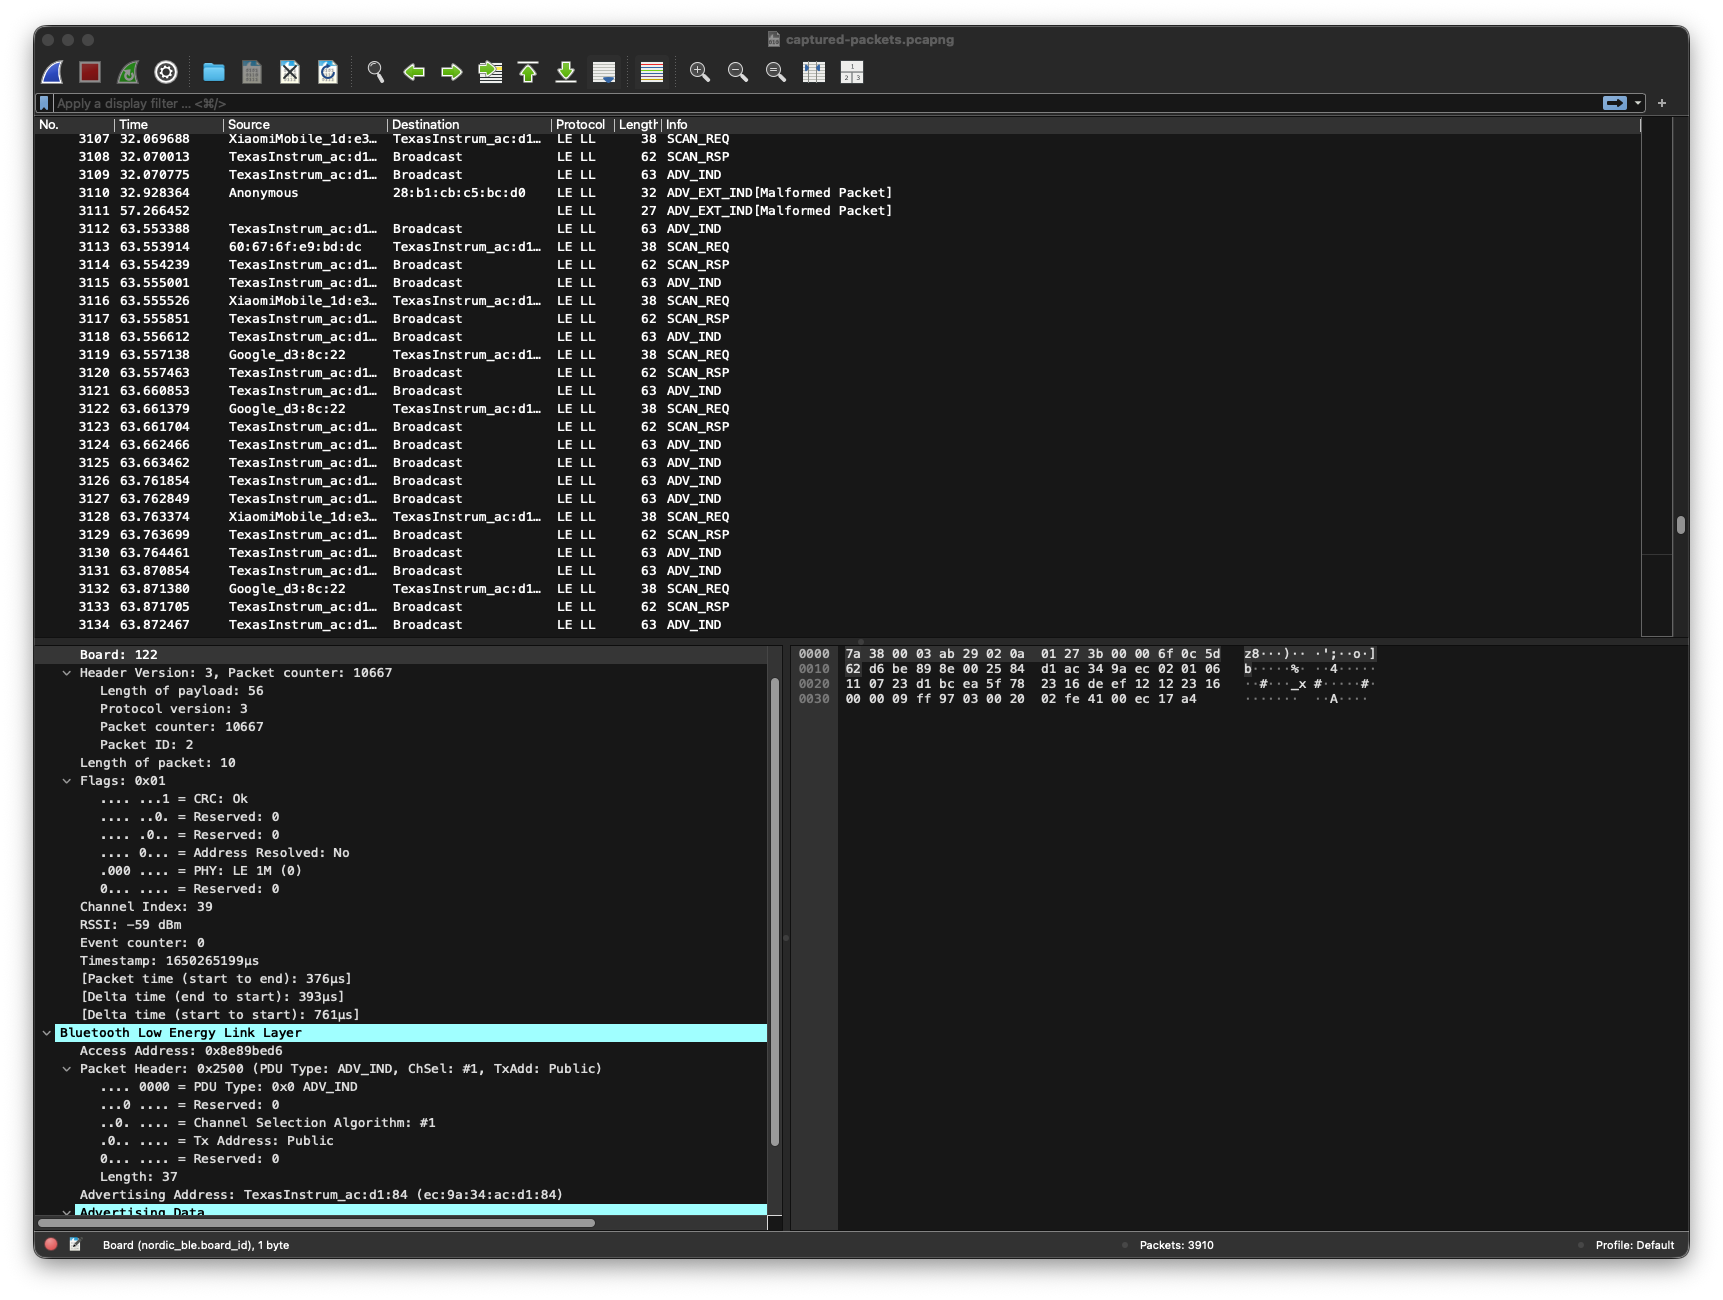
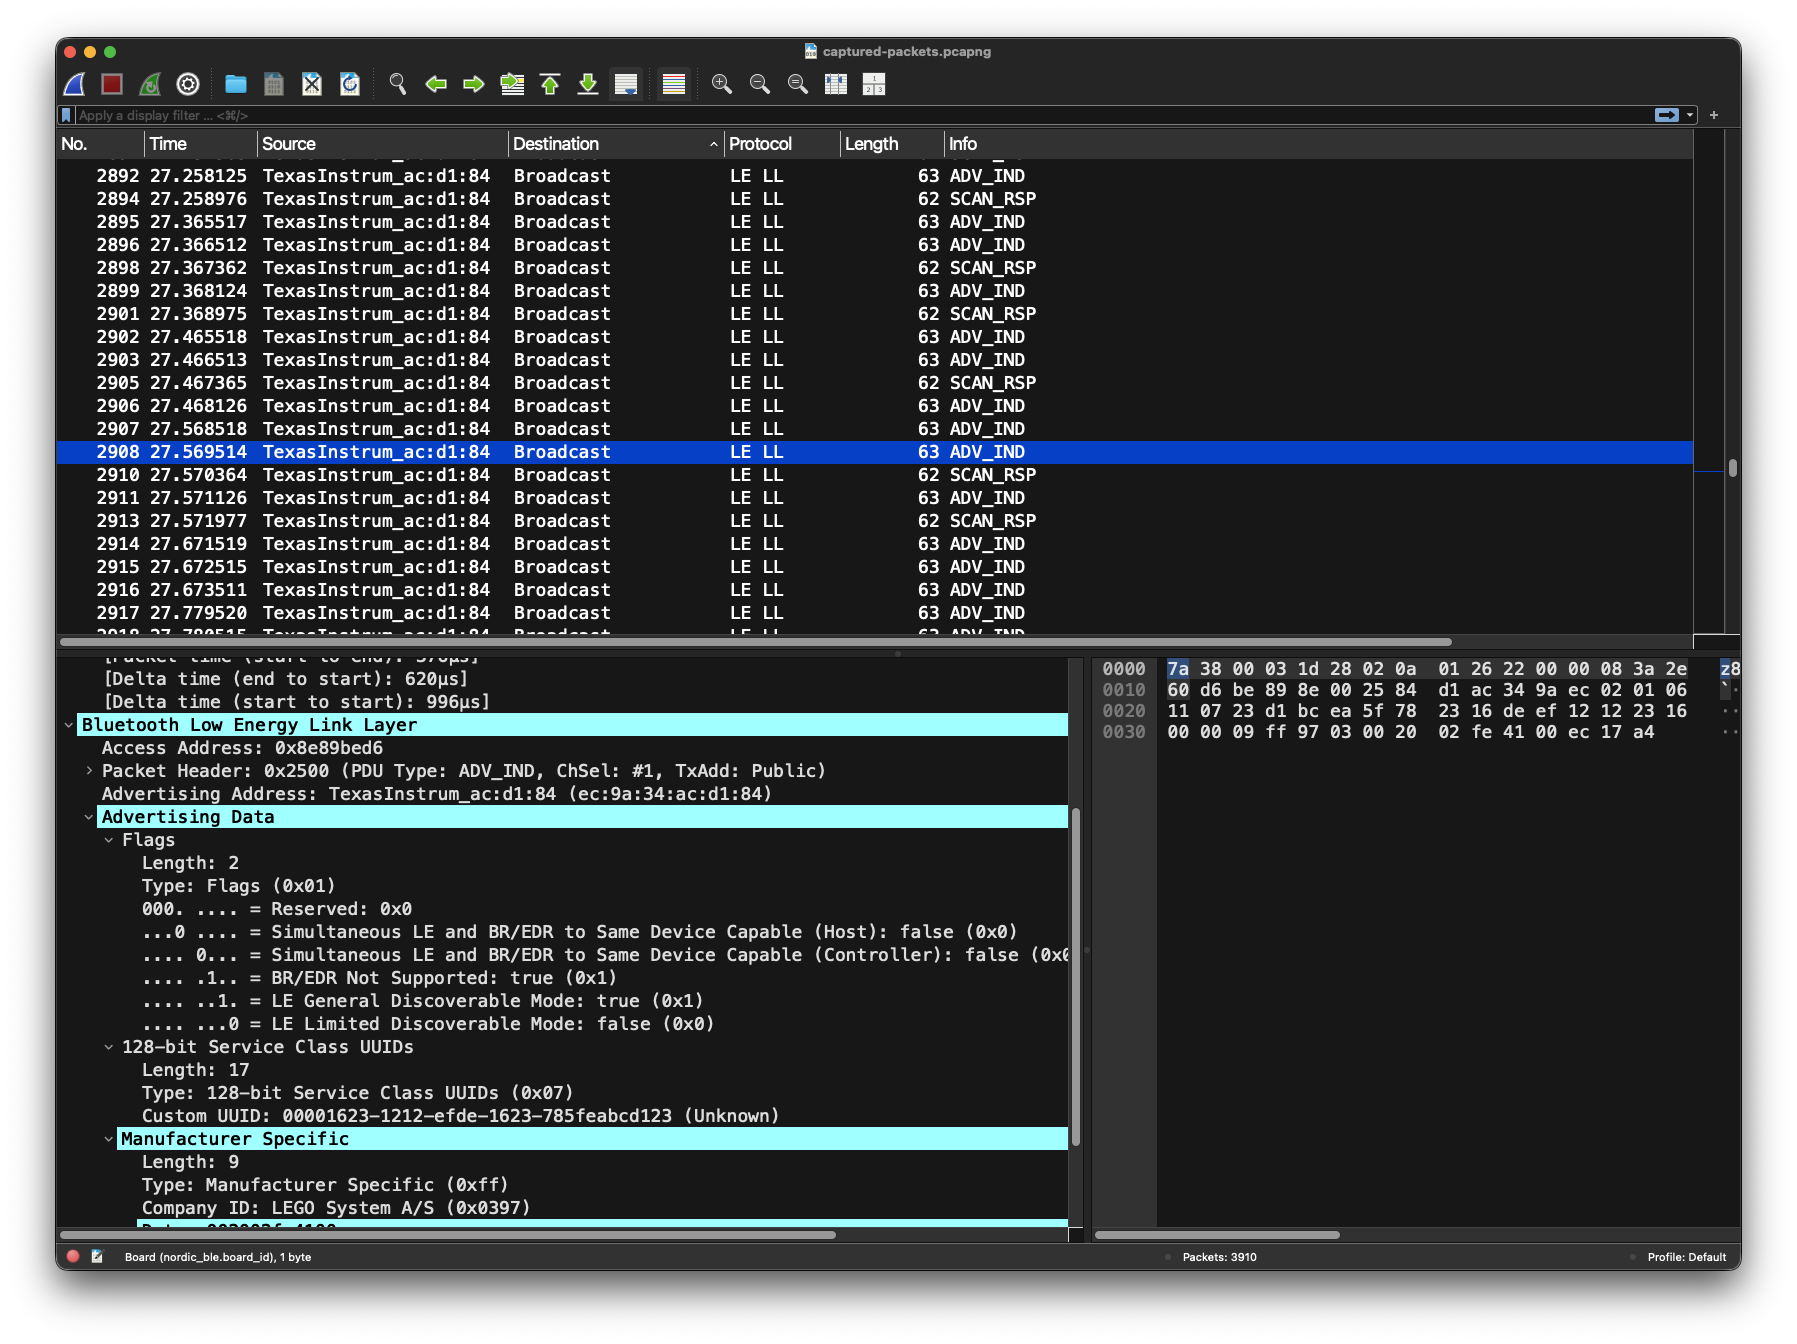
siplification

diff --git a/slides/components/BleConnectionDiagram.vue b/slides/components/BleConnectionDiagram.vue
@@ -34,9 +34,9 @@
 
       <div v-click="3" class="ble-flow__step">
         <div class="ble-flow__step-no">03</div>
-        <div class="ble-flow__packet ble-flow__packet--both">DATA CHANNELS</div>
+        <div class="ble-flow__packet ble-flow__packet--both">CONNECTED LINK</div>
         <div class="ble-flow__direction">Both devices</div>
-        <div class="ble-flow__detail">Connection events follow a shared hopping sequence</div>
+        <div class="ble-flow__detail">Packets hop across channels 0–36 using a shared sequence</div>
         <code>0–36 · frequency hopping</code>
       </div>
 

diff --git a/slides/slides.md b/slides/slides.md
@@ -103,16 +103,6 @@ dense: true
 
 # What the official app does
 
-<div class="atm-sub">A small UI over a BLE connection</div>
-
-<v-clicks>
-
-- Forward, backward and stop at fixed speed presets
-- Toggle through five light colours
-- Toggle through five built-in sounds
-
-</v-clicks>
-
 ::right::
 
 <div class="mt-[128px]">
@@ -203,98 +193,37 @@ that turns the radio traffic into something readable.
 
 ---
 layout: atm-split
-surface: dark
-bg: soft
-panel: soft
-ratio: 0.9fr 1.2fr
-deco: none
----
-
-# The nRF52840 dongle
-
-<div class="atm-sub">A practical over-the-air BLE sniffer</div>
-
-<v-clicks>
-
-- Clear documentation and open tooling
-- Firmware, Wireshark plugins and community tooling
-- Affordable: around $20, depending on the seller
-- For this demo: BLE only. The nRF52840 also supports 802.15.4-based protocols
-
-</v-clicks>
-
-::right::
-
-<div class="mt-[18px] flex justify-center">
-
-<div style="width: 120px">
-  <Shot src="/shots/nrf52840.png" plain />
-</div>
-
-</div>
-
-<!--
-The dongle, 50 seconds.
-
-to be done
--->
-
----
-layout: atm-split
-surface: dark
-bg: bokeh
-panel: true
+surface: light
 ratio: 0.82fr 1.35fr
 dense: true
 deco: none
 ---
 
-# Wireshark
+<h2>nRF52840 dongle</h2>
 
-<div class="atm-sub">An open-source microscope for network traffic</div>
-
-<div class="mt-5">
-
-<v-clicks>
-
-- Free to use and open source under the GPL
-- Industry-standard, cross-platform analyzer
-- Capture live traffic or open saved captures
-- Decode and filter protocols down to individual fields
-
-</v-clicks>
-
+<div class="mt-5 flex h-[430px] items-start justify-center">
+  <div style="width: 140px">
+    <Shot src="/shots/nrf52840.png" plain />
+  </div>
 </div>
 
 ::right::
 
-<div class="mt-[-20px] -mx-8">
+<h2>Wireshark</h2>
 
-<Shot
-  src="/shots/wireshark-gui.png"
-  label="Screenshot — Wireshark GUI"
-  caption="Wireshark shows the packet list, decoded fields and raw bytes together."
-  ratio="16/9"
-  />
-
+<div class="mt-5 flex justify-center">
+  <div style="width: 580px">
+    <Shot
+      src="/shots/wireshark-gui.png"
+      label="Screenshot — Wireshark GUI"
+      ratio="16/9"
+      />
+  </div>
 </div>
 
 <!--
-Wireshark, 50 seconds.
-
-Wireshark is free, open-source software released under the GNU GPL. It is a
-widely used, cross-platform network protocol analyzer: it can capture live
-traffic, open saved captures, decode hundreds of protocols, and filter packets
-down to individual fields. The official documentation describes it as useful
-for troubleshooting, security analysis, QA, protocol development, and learning.
-
-In our case, start the capture, select the train, then open the official app.
-Filter on btatt and look for ATT Write Commands to the LEGO hub characteristic.
-The next slide decodes one of those writes.
-
-Sources:
-https://www.wireshark.org/about
-https://www.wireshark.org/docs/wsug_html_chunked/ChapterIntroduction.html
+The dongle listens to BLE traffic over the air. Wireshark displays and decodes
+the captured packets.
 -->
 
 ---
@@ -312,6 +241,47 @@ Now that we have the tool, we can watch the official app talk to the train.
 We will press one control, find the resulting BLE packet, and then open it
 byte by byte.
 -->
+
+---
+layout: atm-light
+deco: corner
+dense: true
+---
+
+# BLE connection sequence
+
+<BleConnectionDiagram />
+
+<div v-click="5" class="atm-note mt-5">
+Miss <code>CONNECT_IND</code> and the sniffer cannot follow the connection that comes after it.
+</div>
+
+<!--
+How a BLE connection starts, 60 seconds.
+
+01. Advertisement. The train is the peripheral. It periodically broadcasts an
+advertisement on the three primary advertising channels. A phone or script
+scans and recognises the train from its name and manufacturer data.
+
+02. CONNECT_IND. When the central decides to connect, it sends CONNECT_IND
+exactly once. This packet carries the Access Address plus the timing and
+channel-hopping parameters.
+
+03. Connected link. After the handshake, both controllers leave the advertising
+channels. The link now hops across data channels 0–36 using a shared sequence.
+This is the radio path that carries the GATT traffic shown next.
+
+04. GATT / ATT. Only now does the application-level traffic begin: service
+discovery, writes to the LEGO characteristic, and notifications back from the
+sensors. The service UUID ending in 1623 is LEGO's logical GATT service. The
+characteristic UUID ending in 1624 is the actual data pipe inside that service,
+with Write and Notify properties. It carries LWP3 commands and sensor data. The
+UUIDs identify GATT objects, not RF channels.
+
+This is why the sniffer must be running before the app starts, and why forcing a
+reconnect helps when CONNECT_IND was missed.
+-->
+
 
 ---
 layout: atm-dark
@@ -366,45 +336,114 @@ the manufacturer data contains LEGO's company ID (0x0397) and vendor-specific
 bytes that help recognise the train before CONNECT_IND appears.
 -->
 
-
 ---
-layout: atm-light
-deco: corner
+layout: atm-dark
+bg: soft
+panel: true
 dense: true
+deco: none
 ---
 
-# BLE connection sequence
+# CONNECT_IND frame
 
-<BleConnectionDiagram />
+<div class="atm-sub">The one-time handoff from advertising to a data connection</div>
 
-<div v-click="5" class="atm-note mt-5">
-Miss <code>CONNECT_IND</code> and the sniffer cannot follow the connection that comes after it.
+<div class="grid grid-cols-2 gap-6 mt-5">
+
+<Shot
+  label="Wireshark frame 3255 — CONNECT_IND"
+  hint="capture frame 3255 · slides/public/captured-packets.pcapng"
+  ratio="16/10"
+/>
+
+<div class="mt-2">
+
+<h3>What this packet carries</h3>
+
+<ul class="mt-4">
+  <li>Data-channel <code>Access Address</code></li>
+  <li>Channel map, connection interval and hop increment</li>
+  <li>The parameters the sniffer needs to follow the link</li>
+</ul>
+
+<div class="atm-note mt-6">
+  Say <strong>BLE link establishment</strong>, not pairing.
+</div>
+
+</div>
+
 </div>
 
 <!--
-How a BLE connection starts, 60 seconds.
+CONNECT_IND, 45 seconds.
 
-01. Advertisement. The train is the peripheral. It periodically broadcasts an
-advertisement on the three primary advertising channels. A phone or script
-scans and recognises the train from its name and manufacturer data.
+Use capture frame 3255. The previous slide is frame 3230 (ADV_IND), so these
+two frames make a useful pair: the train first announces itself, then the
+central accepts the advertisement and provides the parameters needed to follow
+the new data connection.
 
-02. CONNECT_IND. When the central decides to connect, it sends CONNECT_IND
-exactly once. This packet carries the Access Address plus the timing and
-channel-hopping parameters.
+Highlight the data Access Address 0x50655b55, the channel map, the connection
+interval and the hop increment. CONNECT_IND is a one-time BLE link-establishment
+packet, not a pairing message. If the sniffer misses it, it cannot derive the
+subsequent channel-hopping sequence.
+-->
 
-03. Data channels. After the handshake, both controllers leave the advertising
-channels and meet on the data channels according to the shared hopping
-sequence.
+---
+layout: atm-light
+deco: squares
+dense: true
+---
 
-04. GATT / ATT. Only now does the application-level traffic begin: service
-discovery, writes to the LEGO characteristic, and notifications back from the
-sensors. The service UUID ending in 1623 is LEGO's logical GATT service. The
-characteristic UUID ending in 1624 is the actual data pipe inside that service,
-with Write and Notify properties. It carries LWP3 commands and sensor data. The
-UUIDs identify GATT objects, not RF channels.
+# GATT writes and notifications
 
-This is why the sniffer must be running before the app starts, and why forcing a
-reconnect helps when CONNECT_IND was missed.
+<div class="atm-sub">The same characteristic carries commands out and state back</div>
+
+<div class="grid grid-cols-2 gap-5 mt-5">
+
+<Shot
+  label="Wireshark frame 3264 — CCCD write"
+  hint="capture frame 3264 · ATT Write Request · 01 00"
+  ratio="16/10"
+/>
+
+<Shot
+  label="Wireshark frame 3821 — battery notification"
+  hint="capture frame 3821 · ATT Notification · battery 84%"
+  ratio="16/10"
+/>
+
+</div>
+
+<div class="grid grid-cols-2 gap-5 mt-5">
+
+<div class="atm-note">
+  <strong>Write:</strong> the app writes <code>01 00</code> to the CCCD and
+  enables notifications.
+</div>
+
+<div class="atm-note">
+  <strong>Notification:</strong> the train sends a battery update back through
+  characteristic <code>1624</code>.
+</div>
+
+</div>
+
+<!--
+GATT writes and notifications, 60 seconds.
+
+Use frame 3264 for the setup step: the app writes 01 00 to the CCCD at handle
+0x000c, enabling notifications. Frame 3269 is an optional follow-up if the
+slide needs the matching Write Response.
+
+Use frame 3821 for the return path. It is a real ATT Notification carrying an
+LWP3 Hub Properties update for battery voltage, with a value of 84%. Do not
+describe this capture as proof of color or speed notifications: the capture
+notes explicitly say those values were not present in this session.
+
+The durable point is the direction of traffic: GATT writes carry commands from
+the app to the train, while notifications carry state from the train back to
+the app. ATT handles are local to this capture; characteristic UUID 1624 is the
+more useful protocol label.
 -->
 
 
